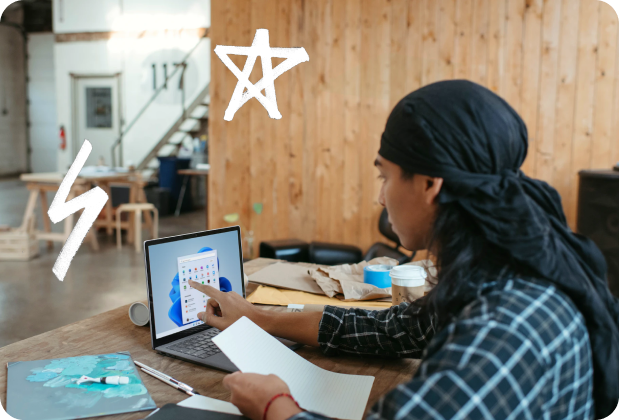
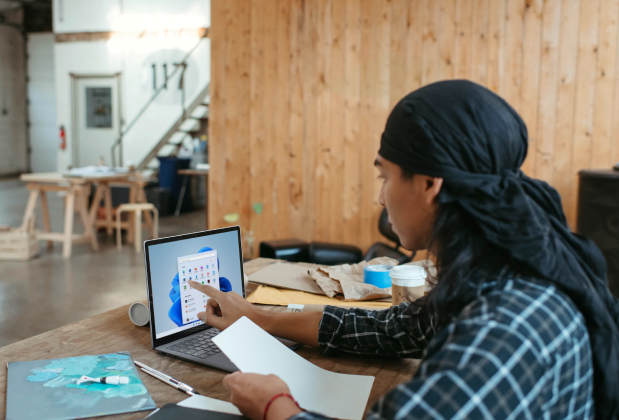
Upload your CV

diff --git a/style.css b/style.css
@@ -287,3 +287,63 @@ a {
 .cta__input::placeholder {
   color: #cccccc;
 }
+
+/* CV */
+.cv {
+  padding: 64px 0;
+}
+
+.cv__content {
+  width: 100%;
+  display: flex;
+  align-items: center;
+  justify-content: space-between;
+}
+
+.cv__left {
+  background-image: url("./images/cv_photo.png");
+  width: 619px;
+  height: 420px;
+  border-radius: 24px;
+  position: relative;
+}
+
+.cv__star {
+  position: absolute;
+  top: 28px;
+  left: 213px;
+}
+
+.cv__lightning {
+  position: absolute;
+  top: 138px;
+  left: 22px;
+}
+
+.cv__right {
+  display: flex;
+  flex-direction: column;
+  gap: 32px;
+  align-items: flex-start;
+}
+
+.cv__action {
+  display: flex;
+  padding: 16px 24px 16px 16px;
+  justify-content: center;
+  align-items: center;
+  gap: 8px;
+  border-radius: 100px;
+  background: #712fff;
+}
+
+.cv__btn {
+  font-family: "Inter", sans-serif;
+  font-size: 14px;
+  font-weight: 500;
+  line-height: 18px;
+  text-align: center;
+  background-color: inherit;
+  color: white;
+  border: none;
+}

diff --git a/index.html b/index.html
@@ -105,6 +105,29 @@
           </div>
         </div>
       </div>
+      <div class="cv">
+        <div class="cv__content container">
+          <div class="cv__left">
+            <img src="./images/star.png" alt="star" class="cv__star" />
+            <img
+              src="./images/lightning.png"
+              alt="lightning"
+              class="cv__lightning" />
+          </div>
+          <div class="cv__right">
+            <h1 class="section__title">Upload your CV</h1>
+            <p class="section__desc">
+              The best tool to start your career journey with. Get connected
+              <br />
+              with the best companies — just share your CV to get started.
+            </p>
+            <label for="cv__btn" class="cv__action">
+              <img src="./images/upload.png" alt="upload" class="cv__photo" />
+              <button class="cv__btn">Upload</button>
+            </label>
+          </div>
+        </div>
+      </div>
     </main>
   </body>
 </html>
